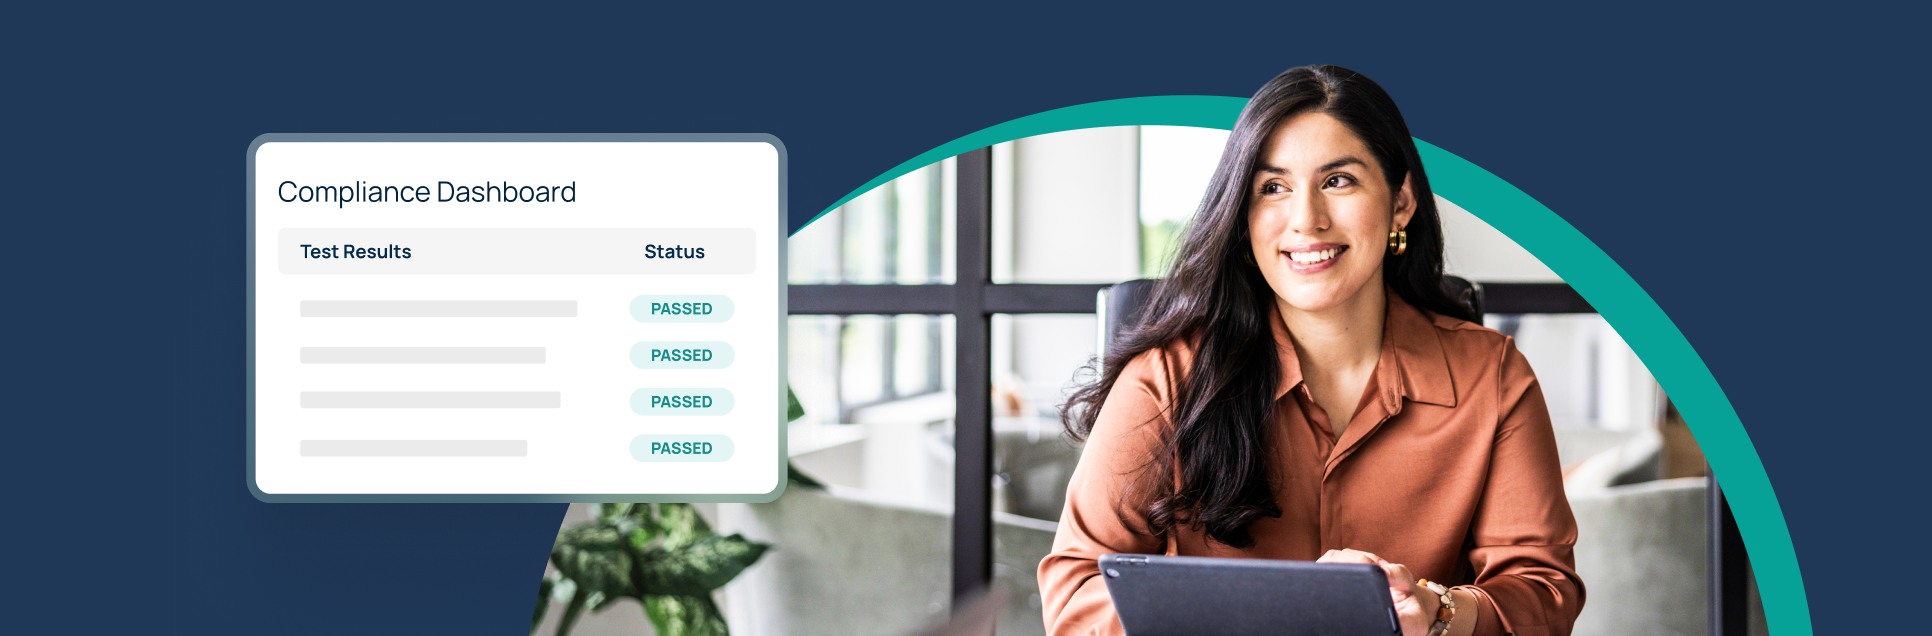
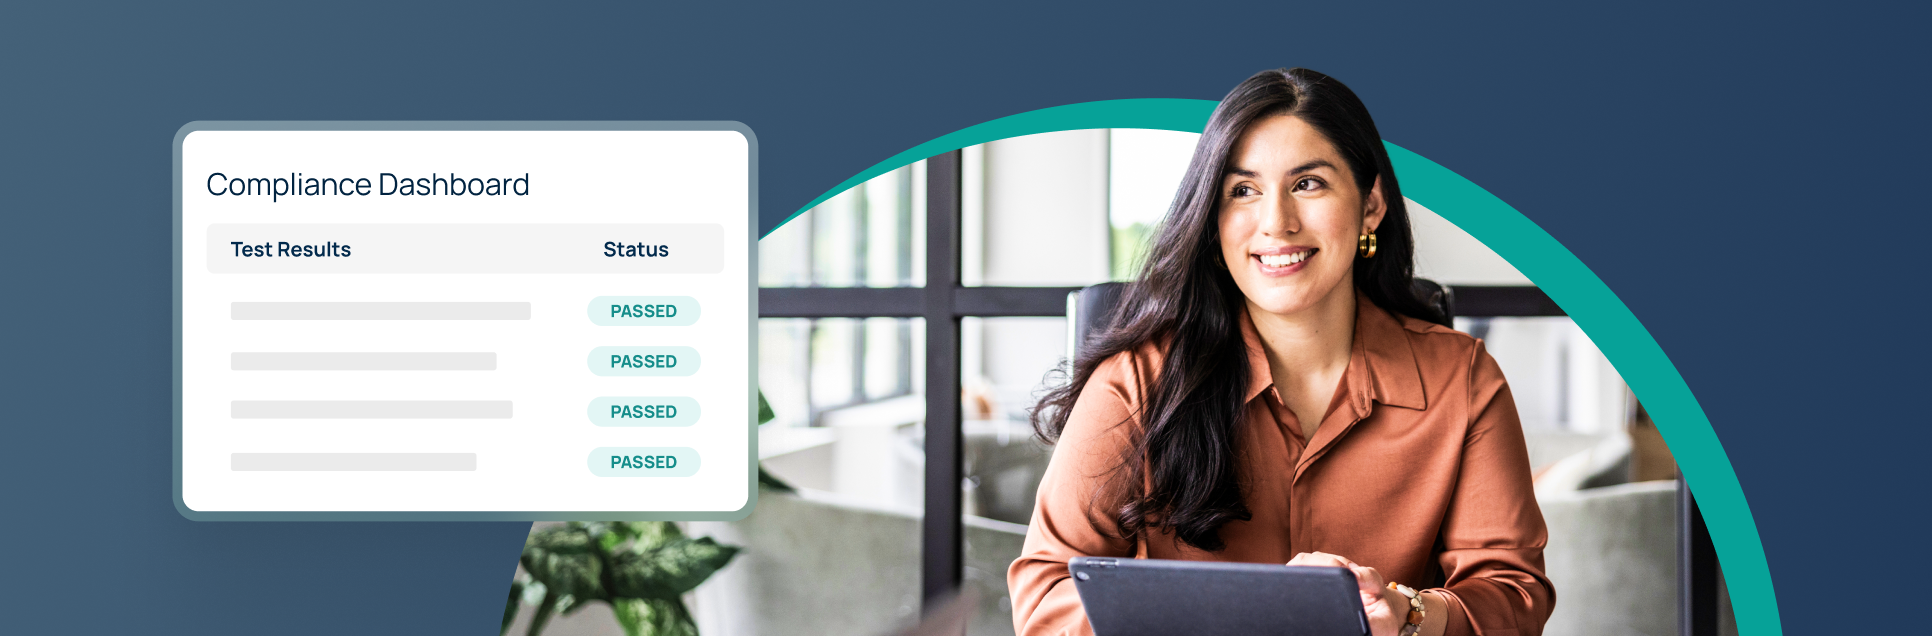
Compliance benchmark photo v5

diff --git a/scripts/raw-component-2-e6e43dfa.js b/scripts/raw-component-2-e6e43dfa.js
@@ -1155,7 +1155,7 @@ function StandardBlade_MasterDetailMint() {
   const CONTENT_PHOTO_GAP = 16;
   const PHOTO_IMAGES = {
     administration: 'assets/images/image_test_01.png',
-    compliance: 'assets/images/image_test_02.png',
+    compliance: 'assets/images/image_test_02.png?v=5',
     investments: 'assets/images/image_test_04.png'
   };
 

diff --git a/index.html b/index.html
@@ -31,6 +31,6 @@
   <script src="vendor/react.production.min.js"></script>
   <script src="vendor/react-dom.production.min.js"></script>
   <script src="vendor/babel.min.js"></script>
-  <script src="scripts/boot.js?v=20260604-compliance-v2b"></script>
+  <script src="scripts/boot.js?v=20260604-compliance-v5"></script>
 </body>
 </html>
